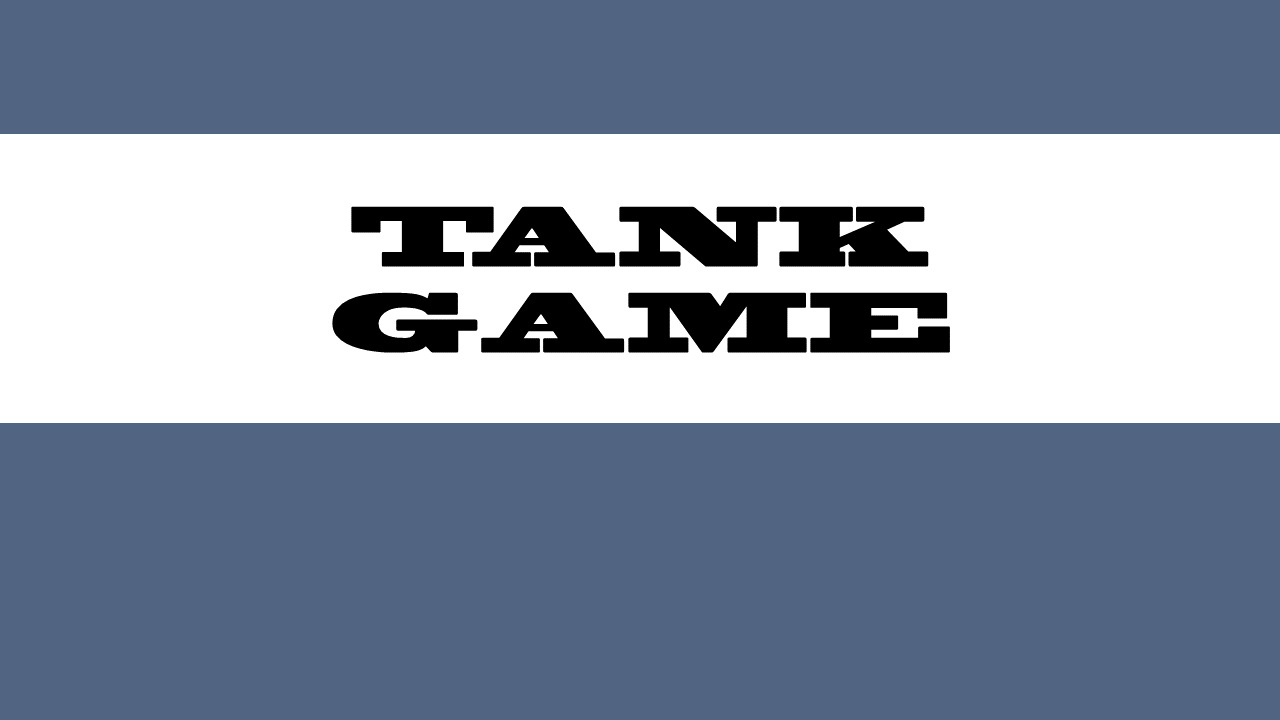
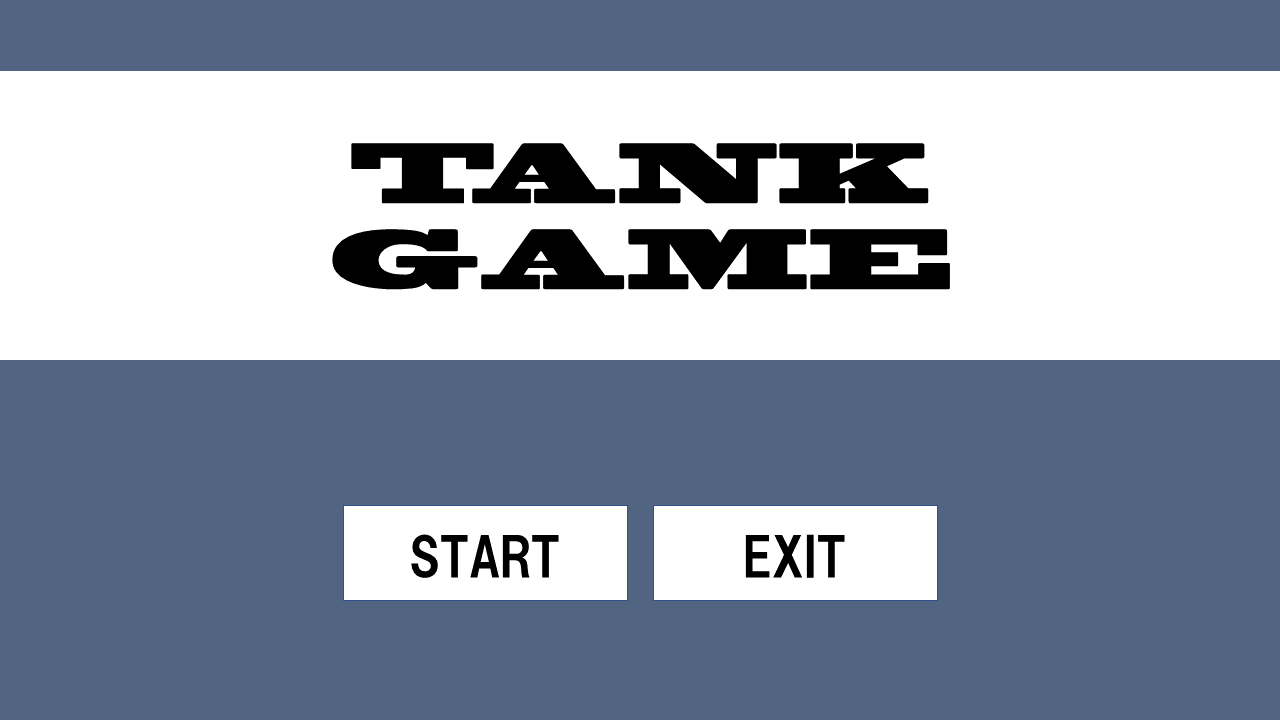
敵の残りの数を表示。 タイトル画面の少し変更。

diff --git a/ClearScene.cpp b/ClearScene.cpp
@@ -50,10 +50,10 @@ void ClearScene::Draw()
 {
 	Image::SetTransform(cPict_, transform_);
 	Image::Draw(cPict_);
-	XMFLOAT3 mouse;
-	mouse = Input::GetMousePosition();
-	pText->Draw(30, 30, mouse.x);
-	pText->Draw(100, 30, mouse.y);
+	//XMFLOAT3 mouse;
+	//mouse = Input::GetMousePosition();
+	//pText->Draw(30, 30, mouse.x);
+	//pText->Draw(100, 30, mouse.y);
 }
 
 void ClearScene::Release()
